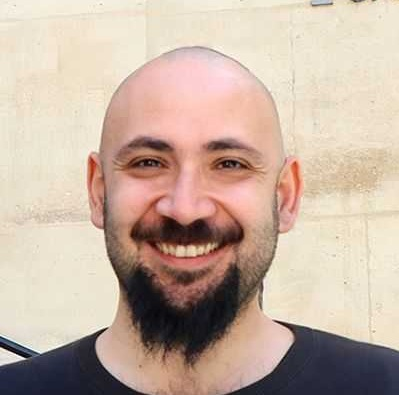
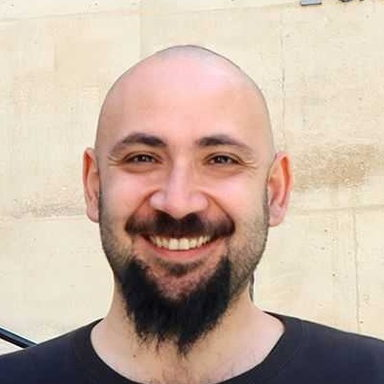
Untrack .claude, normalise portrait images
Remove .claude/ from the repository and add it to .gitignore: it holds a
dev-server config for Claude Code's preview pane and has no bearing on the
published site. The local file is kept so previews still work.

Normalise both portraits to a single spec: 384x384 (6x the 64px rendered
avatar), Lanczos downscale, progressive JPEG at q82. Luca's was 399x395,
so it is now a true square, and both files dropped to 20 KB. Sync the
declared img width/height attributes, which still claimed 512.

diff --git a/docs/index.html b/docs/index.html
@@ -447,7 +447,7 @@
     <div class="people">
       <article class="card person reveal">
         <div class="avatar">
-          <img src="assets/img/kamil-smolak.jpg" width="512" height="512"
+          <img src="assets/img/kamil-smolak.jpg" width="384" height="384"
                alt="Dr Kamil Smolak" loading="lazy" decoding="async">
         </div>
         <div>
@@ -469,7 +469,7 @@
 
       <article class="card person reveal">
         <div class="avatar">
-          <img src="assets/img/luca_pappalardo.jpg" width="512" height="512"
+          <img src="assets/img/luca_pappalardo.jpg" width="384" height="384"
                alt="Dr Luca Pappalardo" loading="lazy" decoding="async">
         </div>
         <div>
